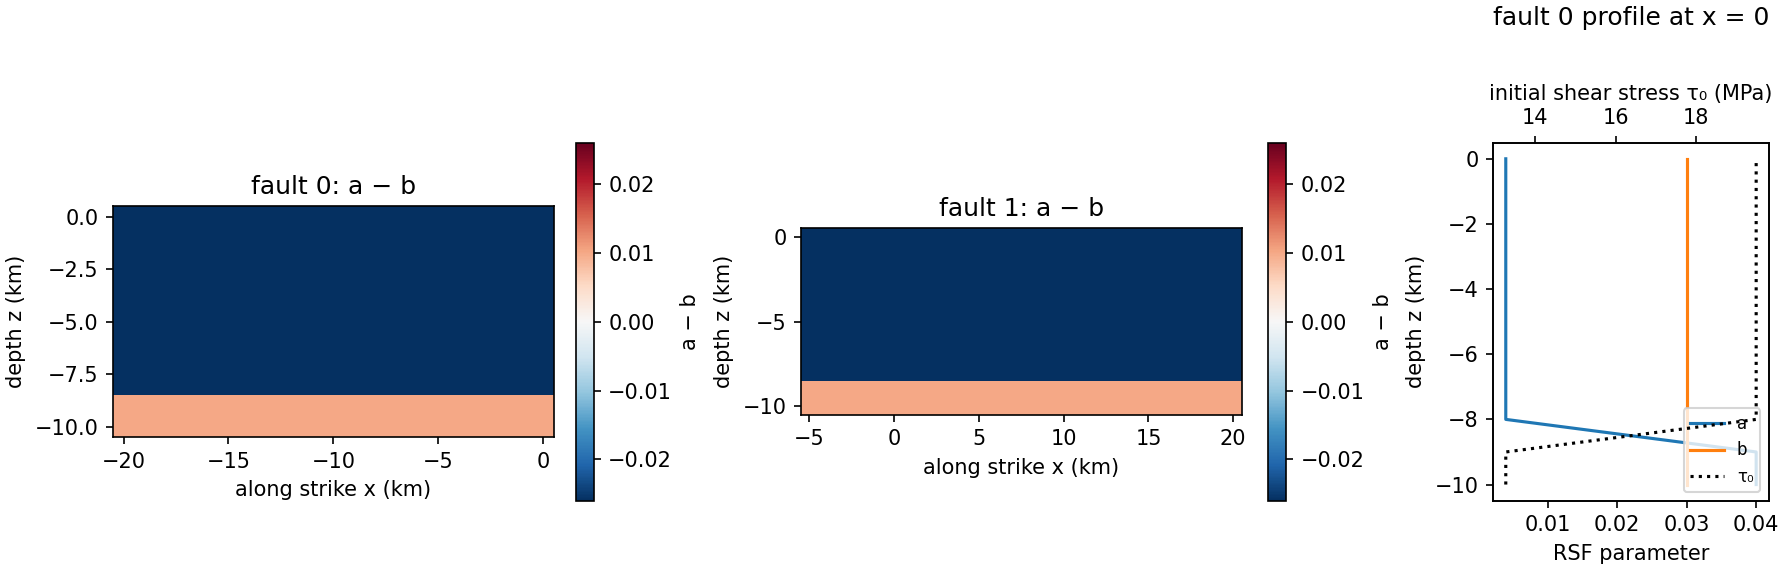
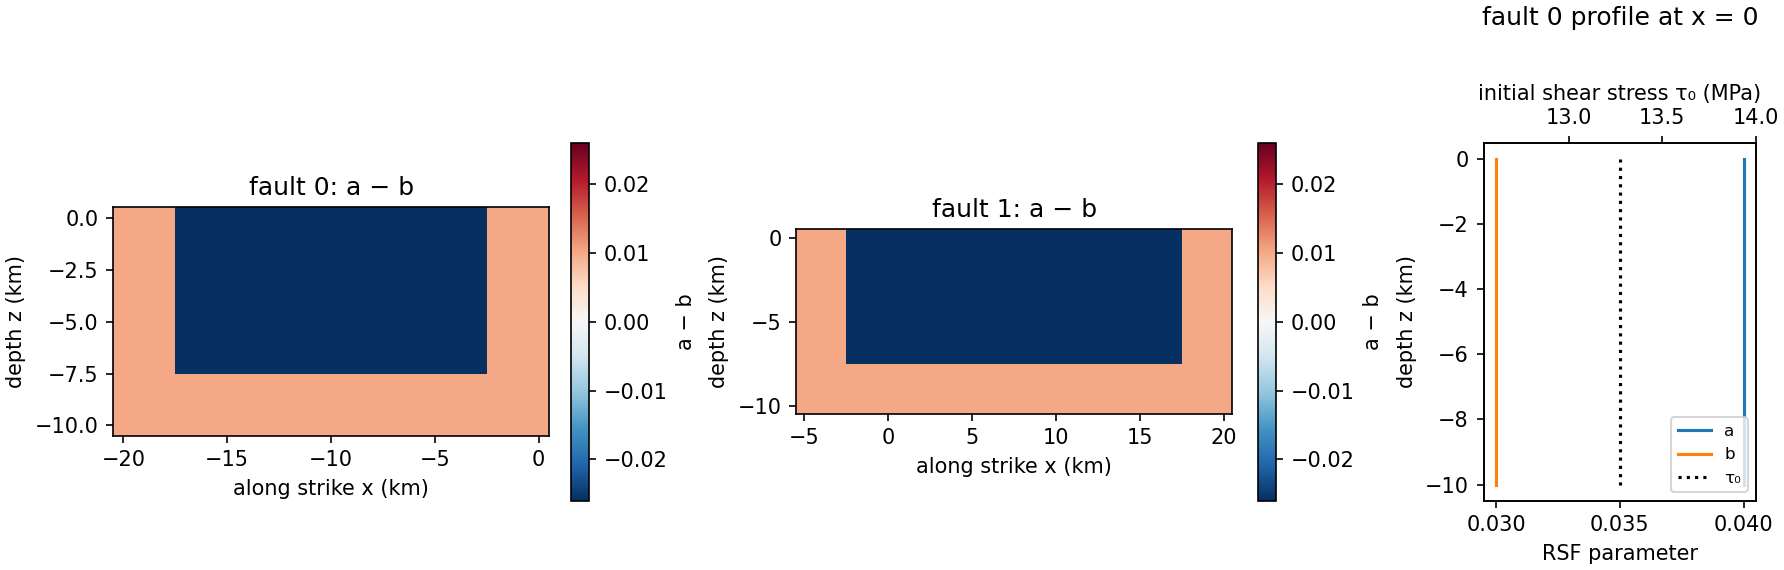
Stepover as an fdc case; cycle 2 blocked in EQquasi's restart
test.stepover.2fault takes bp1001's fdc settings (mode 2, exit_slip_rate,
xi, normal-stress caps, EQdyna term and dt) and a velocity-strengthening
margin of 3 km on every fault edge. Cycle 1 runs locally; cycle 2's
EQquasi diverges on fault 0's post-rupture effective normal stress from
EQdyna, isolated by swapping single fields from EQquasi's own restart.

The 1 km bp1001 README records its two local cycles and the 7 stations
at 7.5 km depth that the 1 km grid cannot hold (owner: "Go").

Claude-Session: https://claude.ai/code/session_01H7yiBhsB6LmjUgvuDdWUgZ

diff --git a/compset/test.stepover.2fault/user_defined_params.py b/compset/test.stepover.2fault/user_defined_params.py
@@ -27,8 +27,7 @@ from problemDefaults import problem
 
 par = problem()
 
-par.mode = 1  # quasi-dynamic only; this compset is qdc/dr-equivalent, not
-              # fdc (the restart bridge is a separate, blocked board row)
+par.mode = 2  # fully dynamic: EQquasi interseismic, EQdyna rupture
 par.istart, par.iend = 1, 1
 
 par.ntotft = 2
@@ -62,12 +61,17 @@ def shear_steady_state(p, a, b, v0, r0, load_rate, norm, slip_rate):
 
 
 def fault(p, x, z, ift):
-    # Simple velocity-weakening core, |z| <= 8 km, else velocity-strengthening.
+    # Velocity-weakening core at least 3 km inside every fault edge, else
+    # velocity-strengthening, so EQdyna's rupture arrests before an edge node.
+    # The x ranges repeat FAULT_A/FAULT_B: convert.py copies this function's
+    # source into each code's file, where p holds only the problem fields.
     # init_norm differs by 2 MPa per fault so a convert.py bug that aliases
     # fault 0's array onto fault 1 (or vice versa) shows up as the wrong
     # constant on the wrong fault's nodes (same check test.stepover.qdc.1000
     # uses upstream).
-    a = p.fric_rsf_a if abs(z) <= 8e3 else p.fric_rsf_a + p.fric_rsf_deltaa
+    xlo, xhi = ((-20.0e3, 0.0e3), (-5.0e3, 20.0e3))[ift]
+    vw = abs(z) <= 7e3 and xlo + 3e3 <= x <= xhi - 3e3
+    a = p.fric_rsf_a if vw else p.fric_rsf_a + p.fric_rsf_deltaa
     tnrm = p.init_norm - ift*2.0e6
     return dict(
         a=a, b=p.fric_rsf_b, Dc=p.fric_rsf_Dc,
@@ -90,16 +94,17 @@ par.eqquasi = dict(
     nuni_y_plus=5, nuni_y_minus=5, enlarging_ratio=1.3e0,
     rheology=1,
     solver=1,
-    xi=0.015,
+    xi=0.005,
     minDc=0.13,
     far_vel_load=4e-10,
-    exit_slip_rate=1.0e-3,
+    exit_slip_rate=0.2,
     fric_sw_fs=0, fric_sw_fd=0, fric_sw_D0=0,
     HPC_nnode=1, HPC_ncpu=2, HPC_queue="normal", HPC_time="00:30:00",
     HPC_account="EAR22013",
     st_coor_on_fault=[[-10.0, -2.0], [0.0, -2.0], [5.0, -2.0]],
     st_coor_off_fault=[[0, 5, 0], [0, 5, -5]],
     az_op=2, az_maxiter=2000, az_tol=1.0e-7,
+    C_normal_stress_caps=1,
 )
 
 par.eqdyna = dict(
@@ -110,8 +115,8 @@ par.eqdyna = dict(
     zmin=-20.0e3, zmax=0.0e3,
     xsource=-10.0e3, ysource=0.0, zsource=-5.0e3,
     nuni_y_plus=10, nuni_y_minus=10, enlarging_ratio=1.025e0,
-    term=5.,
-    dt=0.5*par.dx/par.vp,
+    term=150.,
+    dt=0.25*par.dx/par.vp,
     C_elastic=1, C_nuclea=0, C_degen=0,
     nucfault=1,
     output_plastic=0,

diff --git a/PATHWAY_FORWARD.md b/PATHWAY_FORWARD.md
@@ -18,12 +18,14 @@
 - 2026-10-10, on the local-run choice (asked: the existing builds in the
   `eqquasi-petsc` conda env, or a fresh `checkout.sh -i`): **"Use existing
   env for now"**.
+- 2026-10-11, on (1) the 1 km stations at 7.5 km depth (keep the 250 m set,
+  note the gap in the 1 km README) and (2) running `test.stepover.2fault` as
+  a real fdc case: **"Go"**.
 
 | Priority | Item | Command | Last checked |
 |---|---|---|---|
 | P1 | fdc on ls6 never run; locally `bp1001.fdc.rough.1000` ran two cycles for real on 2026-10-10/11 (`eqquasi-petsc` env, EQquasi `eqquasi-1.21.2` = pin source, EQdyna built at the pin): each EQquasi phase ended by handing over to EQdyna, and cycle 2's EQquasi started at peak slip rate 7.814489e-3 m/s, equal to the maximum in cycle 1's `fault.dyna.r.nc`. BLOCKED(owner): ls6 needs an MFA session ("Later") | `create.newcase fdc t bp1001.fdc.rough.1000 --machine ls6 && cd t && ./case.setup && ./case.submit` | 2026-10-11 |
-| P2 | `test.stepover.2fault` never run as a real fdc case; its two-fault restart hand-off is tested only as an I/O round trip in EQdyna's own tests | `create.newcase fdc t test.stepover.2fault --machine local && cd t && ./case.setup && ./case.submit` | 2026-10-11 |
-| P3 | At 1 km, EQdyna drops the 7 on-fault stations at 7.5 km depth (not a node of the 1 km grid; it warns, no `faultst*` file); keep the 250 m station set, or move them for this compset — owner's call | `grep -A9 'WARNING: 7 of 13' <case>/eqdyna/result/cycle0/*.log` | 2026-10-11 |
+| P2 | `test.stepover.2fault` fdc: cycle 1 runs locally (rupture on fault 1, EQdyna hands back at 6.7e-4 m/s); cycle 2's EQquasi diverges from EQdyna's `fault.dyna.r.nc` and stops with `STOP 508`. Swapping one field at a time from EQquasi's own `fault.r.nc` isolates fault 0's `effective_normal` (unclamped to −18.3 MPa at the stepover tip, against −25 MPa); the fix is in EQquasi's restart. BLOCKED(owner): report it to EQquasi | `create.newcase fdc t test.stepover.2fault --machine local && cd t && ./case.setup && ./case.submit` | 2026-10-11 |
 | P2 | Pins in `components.txt` are recent heads (EQquasi 2026-10-09, EQdyna `42ce254` 2026-10-10), not the versions behind Liu et al. (2020) | `git -C components/eqquasi log --until=2020-12-31 -1` | 2026-10-09 |
 | P3 | The 1 km low-pass (`roughness.resample`, Gaussian, 2 km cutoff) still passes about 37% amplitude at 2 km, the Nyquist wavelength of the 1 km grid; sharpen only if the owner asks | `grep -n "def resample" -A30 utils/roughness.py` | 2026-10-10 |
 | P3 | EQdyna's own `case_input/bp1001.fdc.rough.250` is in the flat pre-`par` format its `case.setup` no longer imports; report to EQdyna | `grep -c 'par = parameters' components/eqdyna/case_input/bp1001.fdc.rough.250/user_defined_params.py` | 2026-10-09 |

diff --git a/compset/test.stepover.2fault/README.md b/compset/test.stepover.2fault/README.md
@@ -8,7 +8,26 @@ benchmark: it tests the multi-fault path of `utils/convert.py` for both codes.
 | | |
 |---|---|
 | Faults | x −20…0 km at y = 0, and x −5…20 km at y = −2 km; both z −10…0 km |
-| Friction | rate-and-state, aging law; velocity-weakening for \|z\| ≤ 8 km |
+| Friction | rate-and-state, aging law; velocity-weakening for \|z\| ≤ 7 km and ≥ 3 km from each fault end |
 | Initial stress | σn = −25 MPa on fault 1, −27 MPa on fault 2 |
-| Mode | quasi-dynamic only; fdc with a stepover is blocked (`PATHWAY_FORWARD.md`) |
+| Mode | fully dynamic (`par.mode = 2`); `create.newcase fdc` |
 | Roughness | none; EQdyna refuses a rough fault with `ntotft > 1` |
+
+The fdc settings (`exit_slip_rate`, `xi`, `C_normal_stress_caps`, `term`,
+`dt`) are those of `bp1001.fdc.rough.250`.
+
+## Results
+
+Run locally with the pinned codes (`--machine local`, 2026-10-11). Cycle 1
+works: EQquasi reaches rupture on fault 1 after about 56 years, EQdyna runs
+it to 150 s and hands back at peak slip rate 6.7e-4 m/s.
+
+## Known issues
+
+- Cycle 2 fails: EQquasi diverges within its first steps from EQdyna's
+  `fault.dyna.r.nc` and stops with `STOP 508`. The trigger is fault 0's
+  `effective_normal` alone: the rupture on fault 1 unclamps fault 0's
+  stepover tip to −18.3 MPa (EQquasi's own file has −25 MPa there). With
+  EQquasi's own `effective_normal` for fault 0 and everything else from
+  EQdyna, the same restart runs. The restart layout of the two files is the
+  same. The fix belongs in EQquasi's restart, not in EQsimu.

diff --git a/compset/bp1001.fdc.rough.1000/README.md b/compset/bp1001.fdc.rough.1000/README.md
@@ -33,10 +33,18 @@ cd runs/bp1001.1000 && ./case.setup && ./case.submit
 
 ## Results
 
-Not yet run with the pinned codes.
+Two cycles run locally with the pinned codes (`--machine local`, 6 ranks,
+2026-10-10/11). Cycle 1: EQquasi reaches rupture after 17.5 years
+(48 min wall), EQdyna runs the rupture to 146 s. Cycle 2 starts from
+EQdyna's `fault.dyna.r.nc` and reaches the next rupture after 198 years.
+No physical comparison against the 250 m case or the SEAS results yet.
 
 ## Known issues
 
+- EQdyna writes no `faultst*` file for the 7 on-fault stations at 7.5 km
+  depth (it warns at startup): 7.5 km is not a node of the 1 km grid. The
+  station set is kept the same as `bp1001.fdc.rough.250`'s, so the two
+  resolutions share their stations at 3 and 12 km depth.
 - Slopes (dy/dx, dy/dz) are never copied from the 250 m file:
   `roughness.heights()` calls `roughness.read()` on the 250 m file,
   `roughness.resample()` (low-pass + decimate) and places the result on the
